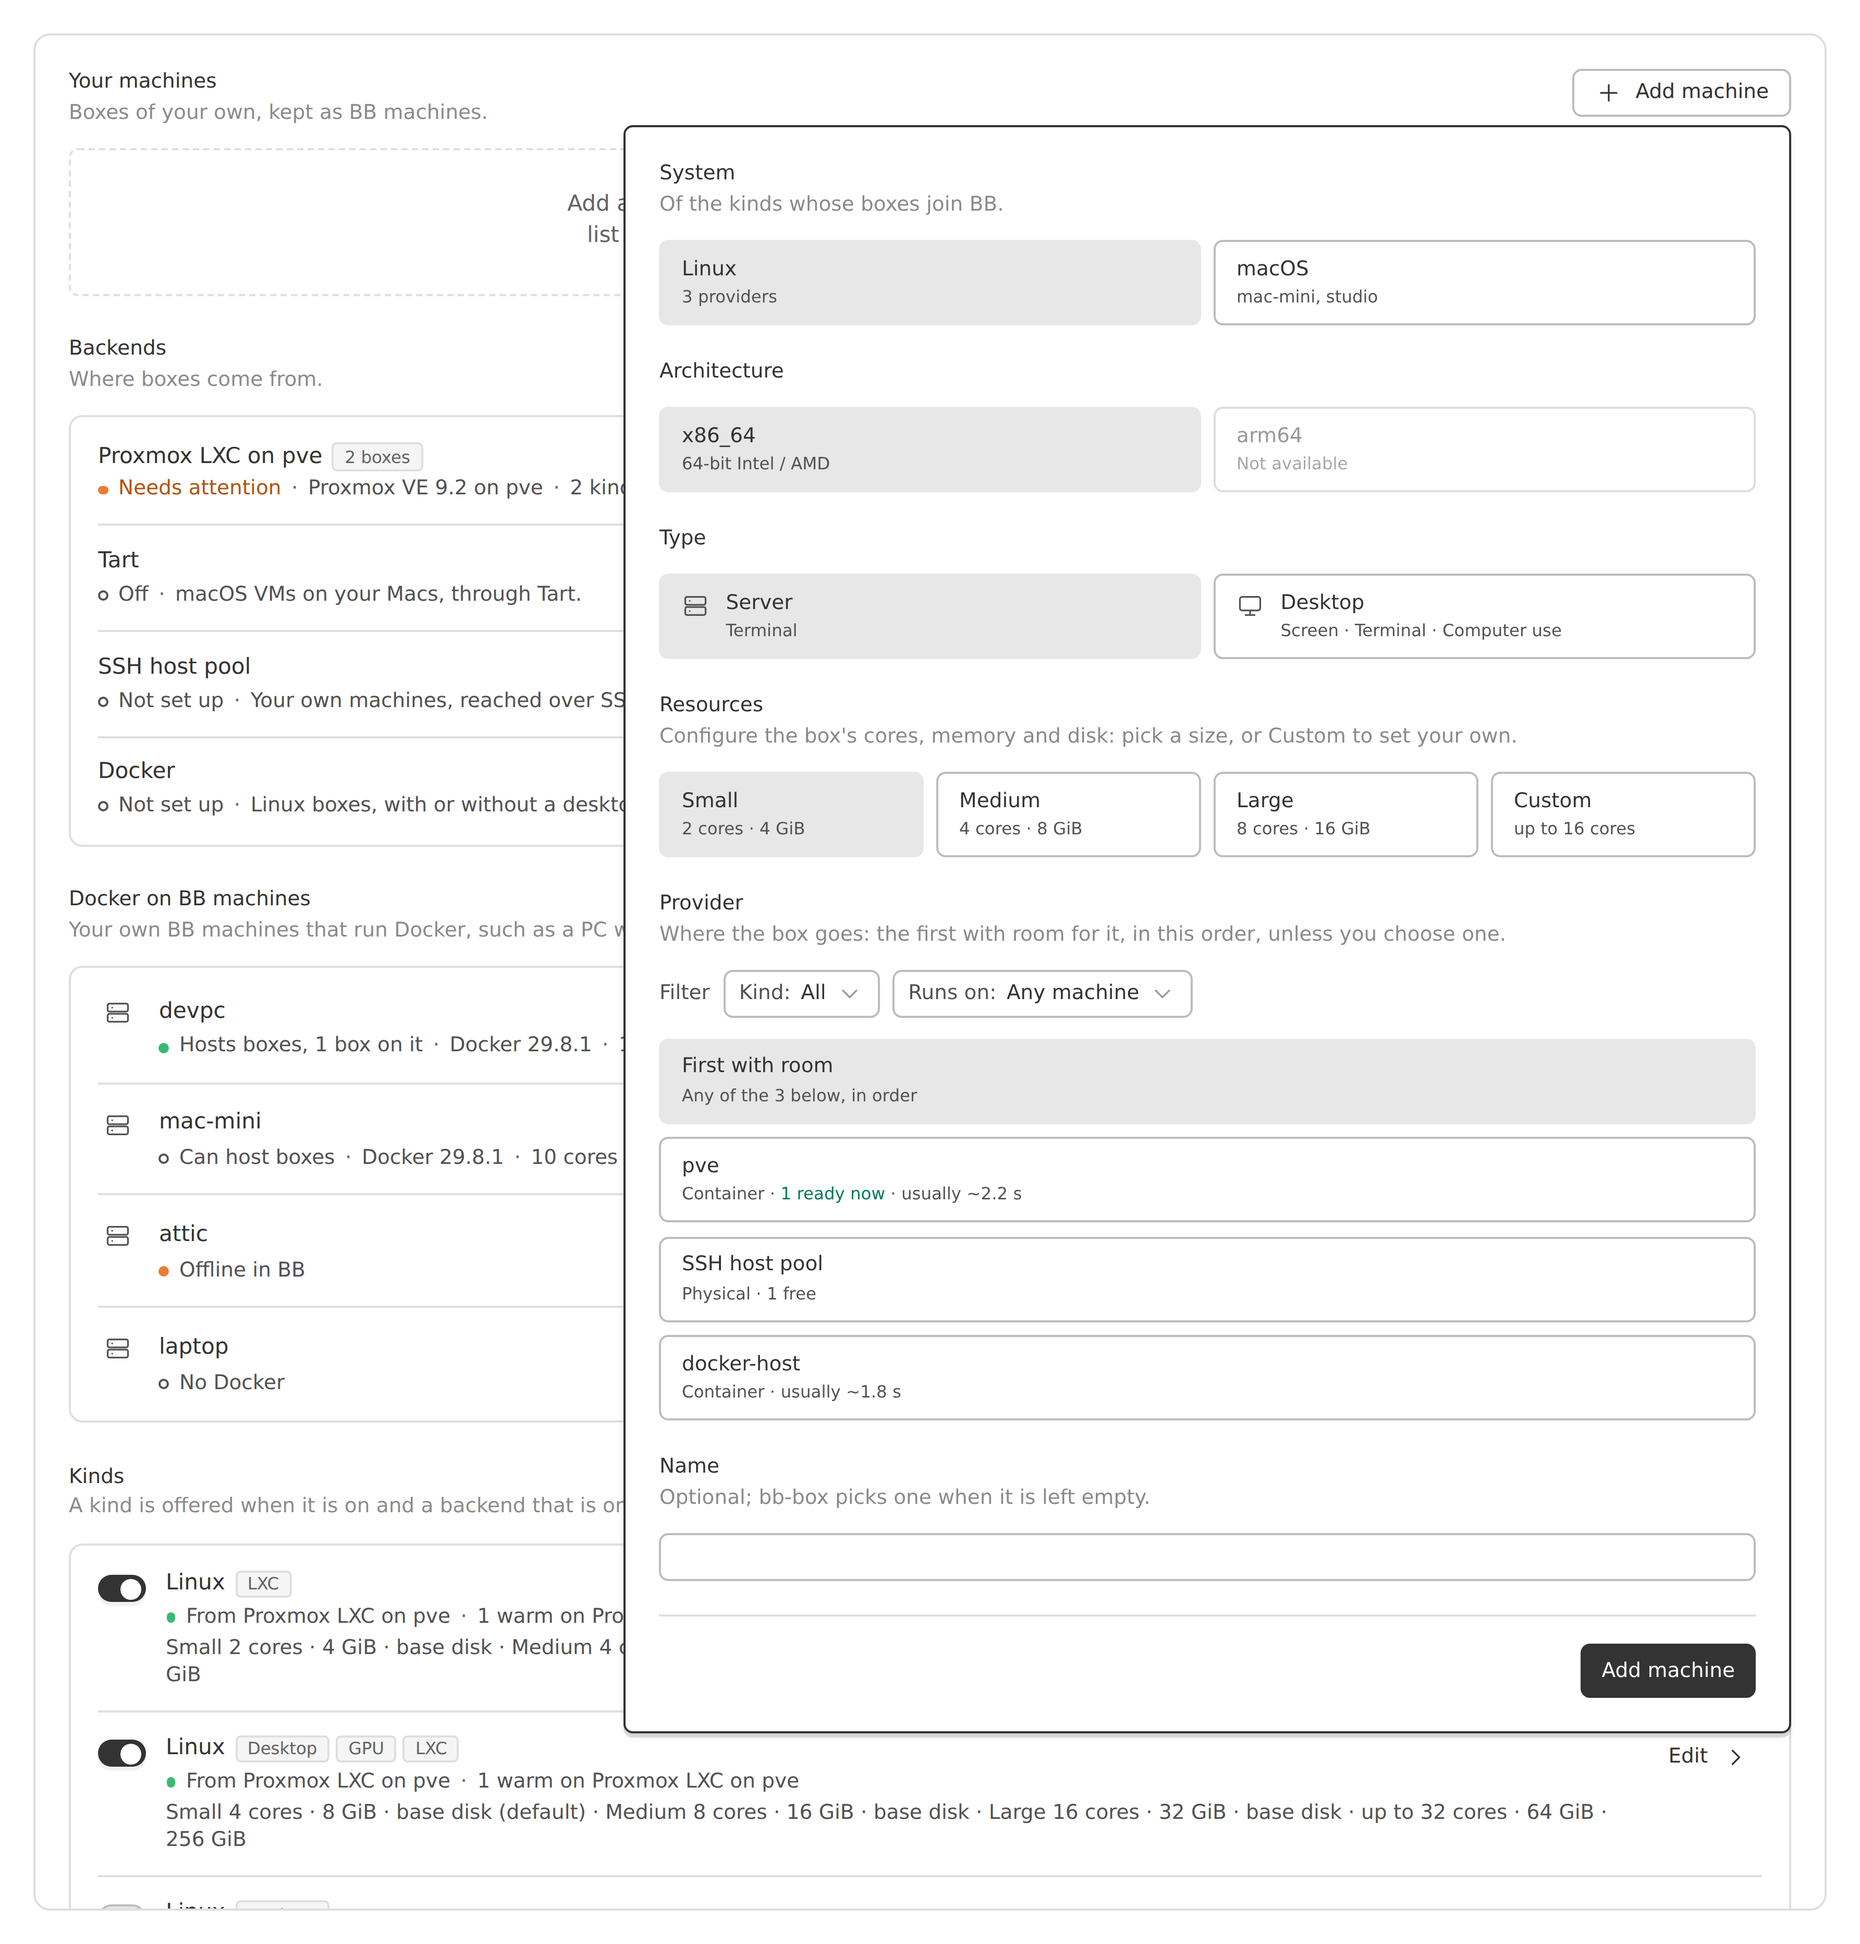
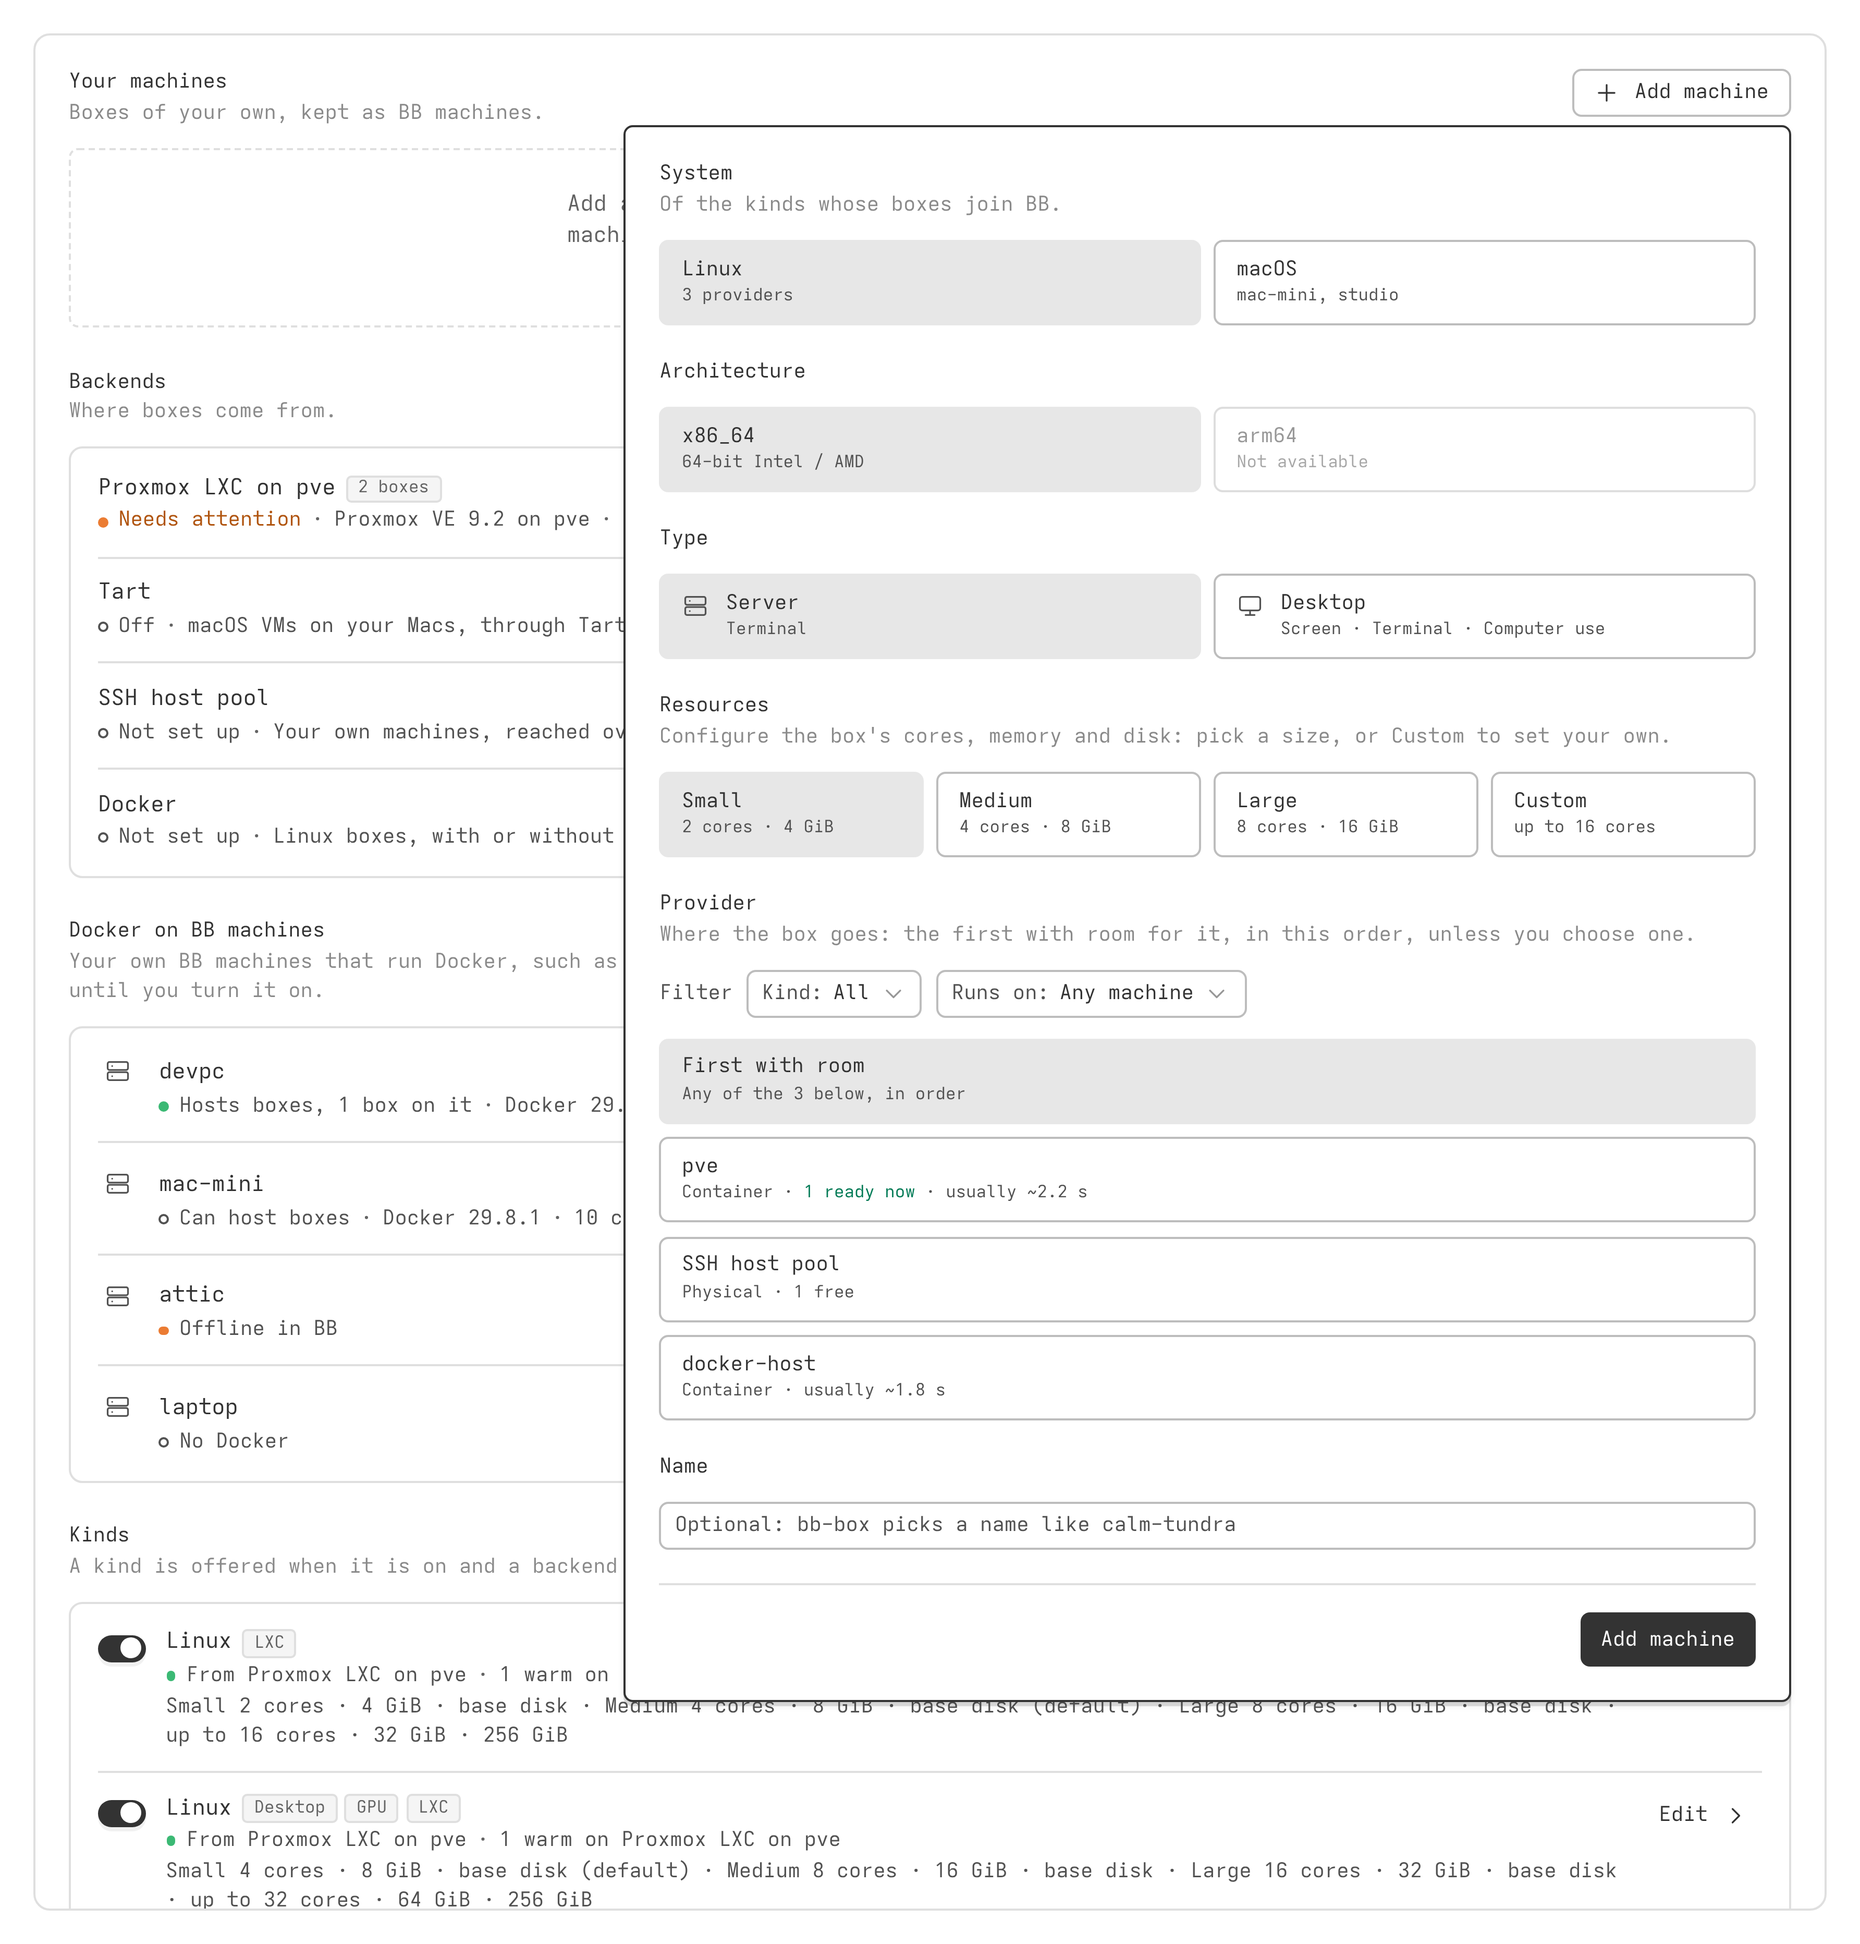
fix(settings): the Add machine Name field hints in its placeholder, not a line above it (036)
The operator asked to drop the Name section's description line and put the
hint in the input instead, so the form is shorter and the hint stays one
line at the narrow width (the paragraph wrapped there).

- The input now reads "Optional: bb-box picks a name like calm-tundra" as its
  placeholder, and the description line is gone.
- The "Name" label stays, and a screen-reader description is kept with an
  sr-only span wired by aria-describedby, since a placeholder alone is not a
  reliable accessible description.
- Reshoots the Add machine scene and updates the panel.md mockup. The test
  checks the placeholder, the aria-describedby wiring and the description.

The Name field is only in the Add machine form; the shared NewBox component
gates it on `machine`, and the panel's New box form has no Name field.

diff --git a/src/app/new-box.tsx b/src/app/new-box.tsx
@@ -437,10 +437,12 @@ export function NewBox({
             </div>
           </FormSection>
           {machine ? (
-            <FormSection title="Name" description="Optional; bb-box picks one when it is left empty.">
+            <FormSection title="Name">
               <Input
                 id="new-machine-name"
                 aria-label="Name"
+                aria-describedby="new-machine-name-hint"
+                placeholder="Optional: bb-box picks a name like calm-tundra"
                 className="h-7 px-2 text-xs"
                 value={name}
                 autoCapitalize="off"
@@ -452,6 +454,9 @@ export function NewBox({
                   setProblem(null);
                 }}
               />
+              <span id="new-machine-name-hint" className="sr-only">
+                Optional. If left empty, bb-box picks a name.
+              </span>
               {nameWrong ? (
                 <p role="alert" className="text-2xs leading-snug text-destructive-text">
                   {nameWrong}

diff --git a/test/app.test.tsx b/test/app.test.tsx
@@ -1657,8 +1657,10 @@ test("Add machine takes a kind, a size and a name it checks as you type, and the
   expect(await slot.findByText(/Add a box as a BB machine of your own/)).toBeTruthy();
   fireEvent.click(slot.getByRole("button", { name: "Add machine" }));
   expect(await screen.findByText("Of the kinds whose boxes join BB.")).toBeTruthy();
-  expect(screen.getByText("Optional; bb-box picks one when it is left empty.")).toBeTruthy();
   const name = screen.getByRole("textbox", { name: "Name" });
+  expect(name.getAttribute("placeholder")).toBe("Optional: bb-box picks a name like calm-tundra");
+  expect(name.getAttribute("aria-describedby")).toBe("new-machine-name-hint");
+  expect(screen.getByText("Optional. If left empty, bb-box picks a name.")).toBeTruthy();
   fireEvent.change(name, { target: { value: "Build 1" } });
   expect(screen.getByText("Lowercase letters, digits and hyphens, starting with a letter, up to 32 characters.")).toBeTruthy();
   expect(submitButton().disabled).toBe(true);

diff --git a/docs/design/panel.md b/docs/design/panel.md
@@ -255,8 +255,7 @@ words are never cut off.
 | [ docker-host                                                  ]  |
 | [ Container · usually ~1.8 s                                   ]  |
 | Name                                                              |
-| Optional; bb-box picks one when it is left empty.                 |
-| [                                                              ]  |
+| [ Optional: bb-box picks a name like calm-tundra               ]  |
 |------------------------------------------------------------------|
 | No provider matches these filters.              [ Create box ]    |
 +------------------------------------------------------------------+
